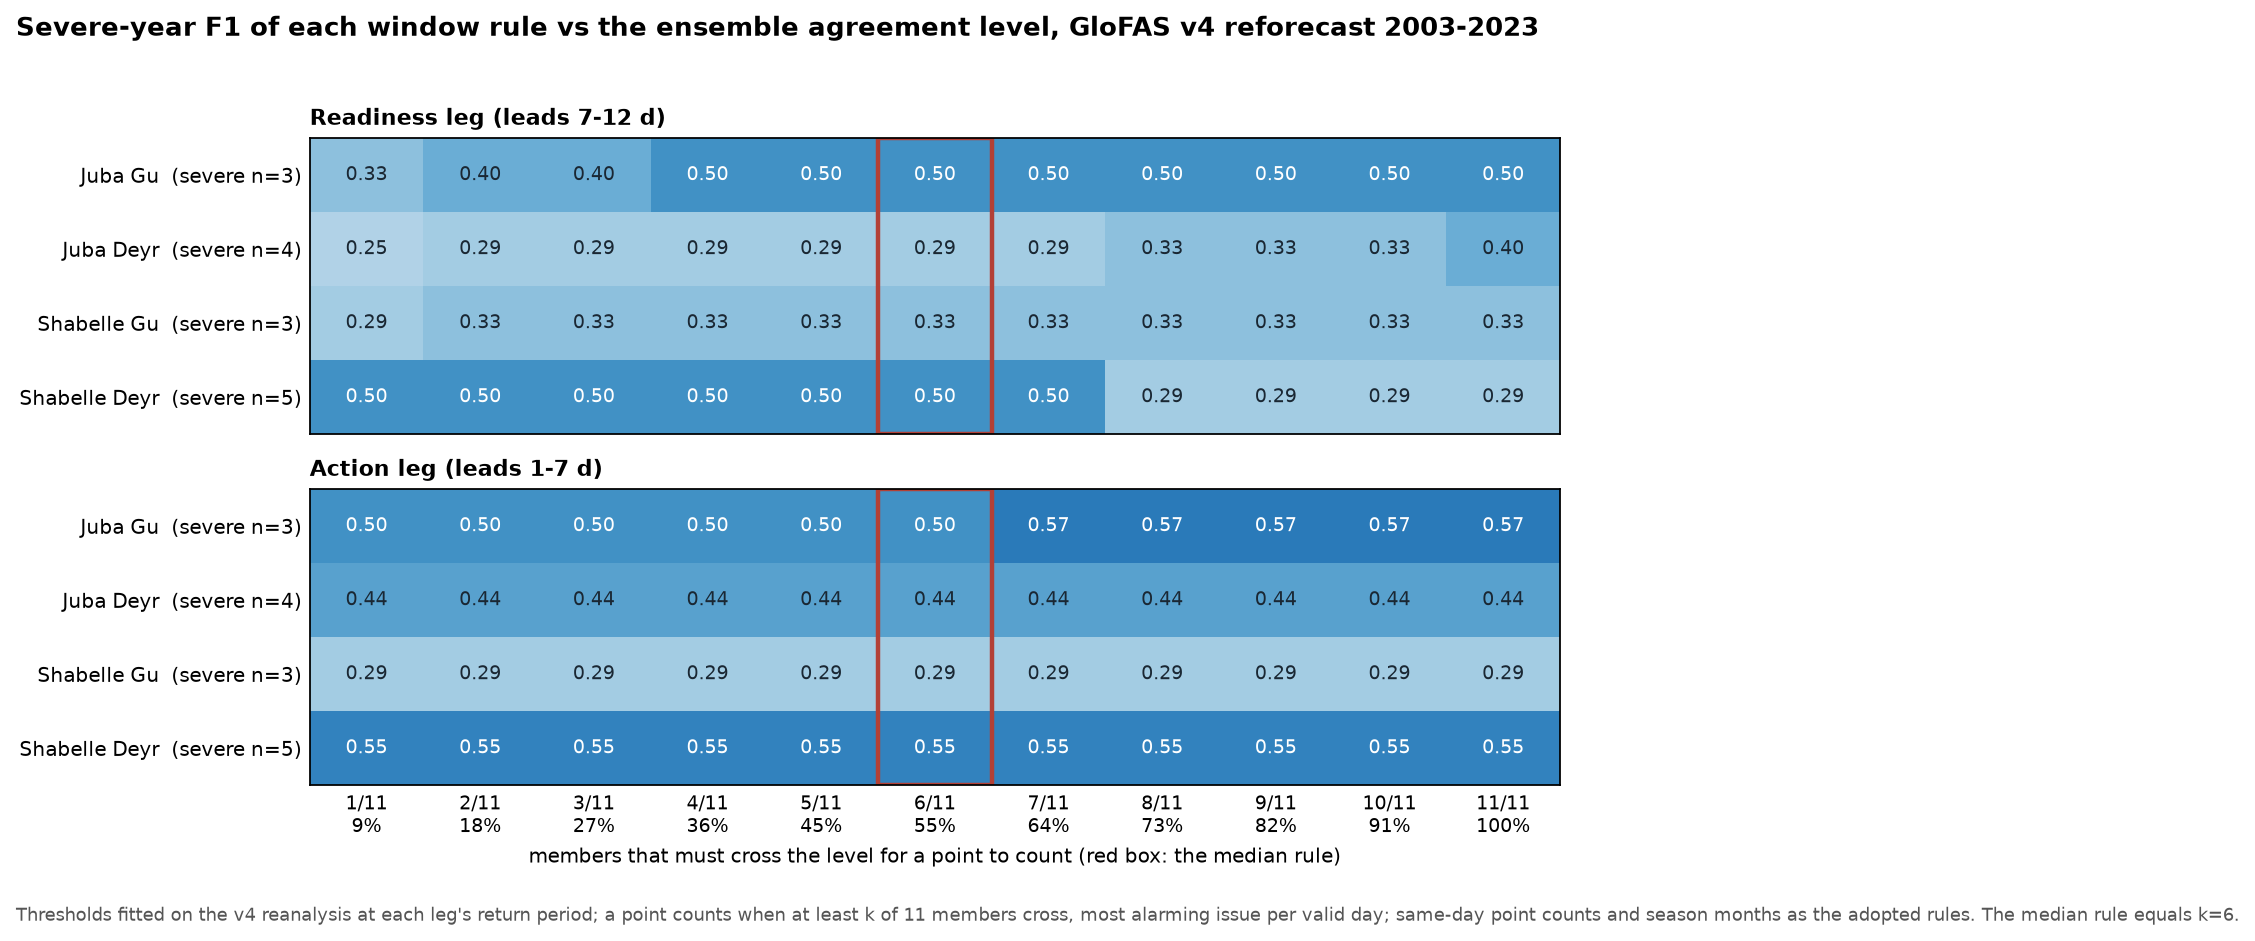
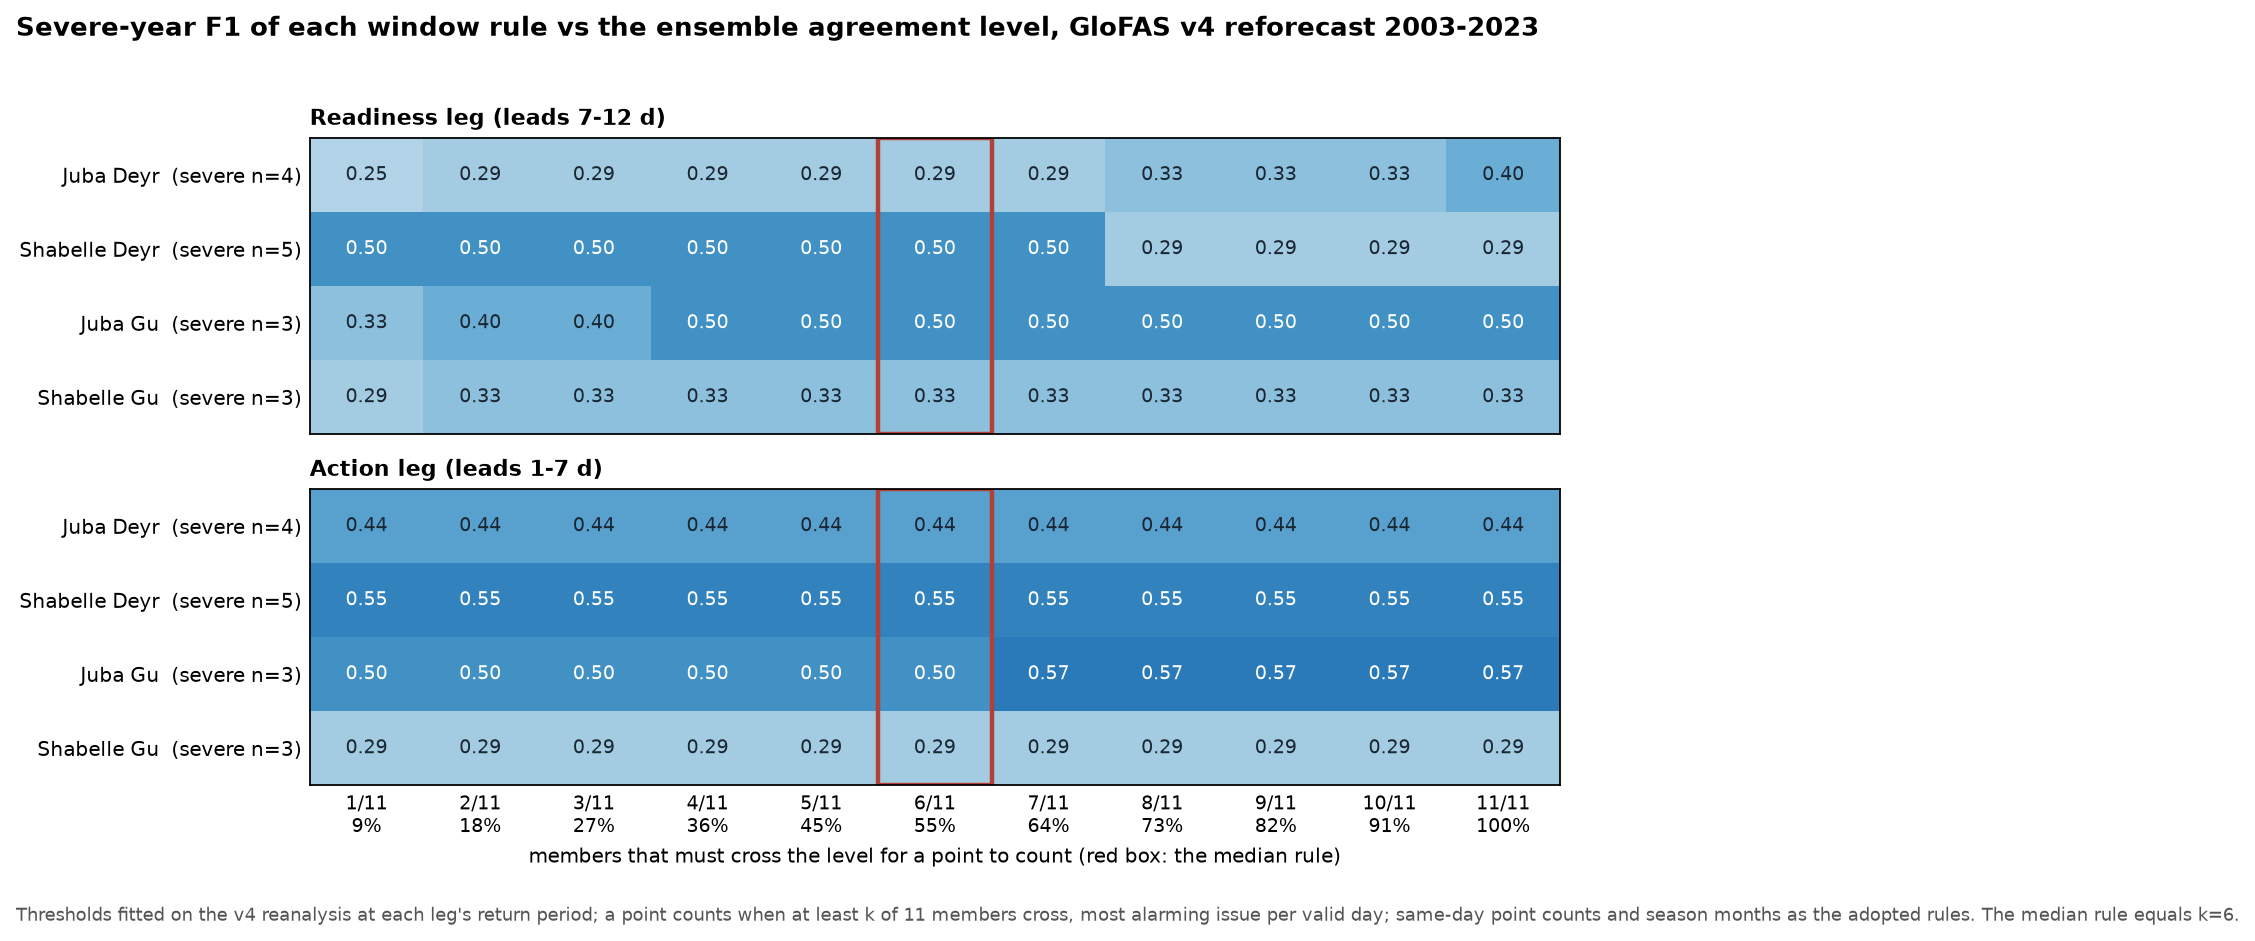
Deyr windows before Gu, in the year table and the heatmap rows

diff --git a/pages/ensemble-agreement/index.html b/pages/ensemble-agreement/index.html
@@ -94,7 +94,7 @@ table.data td { border-bottom:1px solid #eef1f1; padding:7px 10px; color:var(--n
 
     <h2>The sweep</h2>
     <figure>
-      <img src="figs/j_prob_sweep.png?v=202609041700" alt="Heatmap of severe-year F1 per window and leg across the eleven agreement levels">
+      <img src="figs/j_prob_sweep.png?v=202609041830" alt="Heatmap of severe-year F1 per window and leg across the eleven agreement levels">
       <figcaption>Severe-year F1 per window at each agreement level, readiness leg above,
         action below. The red box marks the median rule. On the action leg, three of
         the four windows give the same activations, detection and false alarms at every
@@ -134,7 +134,7 @@ table.data td { border-bottom:1px solid #eef1f1; padding:7px 10px; color:var(--n
 <div class="tablewrap">
 <table class="data">
 <thead><tr><th>window</th><th>year</th><th>gauge benchmark</th><th>readiness activates</th><th>action activates</th></tr></thead>
-<tbody><tr><td>Juba Gu</td><td>2005</td><td>flood (1-in-3)</td><td>no</td><td>at every level</td></tr><tr><td></td><td>2010</td><td>flood (1-in-3)</td><td>up to 1 of 11</td><td>at every level</td></tr><tr><td></td><td>2016</td><td>flood (1-in-3)</td><td>up to 3 of 11</td><td>up to 6 of 11</td></tr><tr><td></td><td>2018</td><td><em>severe (1-in-5)</em></td><td>no</td><td>at every level</td></tr><tr><td></td><td>2020</td><td><em>severe (1-in-5)</em></td><td>at every level</td><td>at every level</td></tr><tr><td></td><td>2023</td><td><em>severe (1-in-5)</em></td><td>no</td><td>no</td></tr><tr><td>Juba Deyr</td><td>2005</td><td>below 1-in-3</td><td>up to 1 of 11</td><td>at every level</td></tr><tr><td></td><td>2006</td><td><em>severe (1-in-5)</em></td><td>no</td><td>no</td></tr><tr><td></td><td>2008</td><td><em>severe (1-in-5)</em></td><td>no</td><td>no</td></tr><tr><td></td><td>2014</td><td><em>severe (1-in-5)</em></td><td>no</td><td>at every level</td></tr><tr><td></td><td>2015</td><td>below 1-in-3</td><td>up to 7 of 11</td><td>at every level</td></tr><tr><td></td><td>2017</td><td>flood (1-in-3)</td><td>up to 10 of 11</td><td>at every level</td></tr><tr><td></td><td>2023</td><td><em>severe (1-in-5)</em></td><td>at every level</td><td>at every level</td></tr><tr><td>Shabelle Gu</td><td>2005</td><td>flood (1-in-3)</td><td>at every level</td><td>at every level</td></tr><tr><td></td><td>2010</td><td>flood (1-in-3)</td><td>at every level</td><td>at every level</td></tr><tr><td></td><td>2016</td><td><em>severe (1-in-5)</em></td><td>at every level</td><td>at every level</td></tr><tr><td></td><td>2018</td><td>flood (1-in-3)</td><td>up to 1 of 11</td><td>at every level</td></tr><tr><td></td><td>2020</td><td><em>severe (1-in-5)</em></td><td>no</td><td>no</td></tr><tr><td></td><td>2023</td><td><em>severe (1-in-5)</em></td><td>no</td><td>no</td></tr><tr><td>Shabelle Deyr</td><td>2006</td><td><em>severe (1-in-5)</em></td><td>no</td><td>no</td></tr><tr><td></td><td>2007</td><td>below 1-in-3</td><td>no</td><td>at every level</td></tr><tr><td></td><td>2010</td><td>below 1-in-3</td><td>no</td><td>at every level</td></tr><tr><td></td><td>2013</td><td>below 1-in-3</td><td>at every level</td><td>at every level</td></tr><tr><td></td><td>2014</td><td><em>severe (1-in-5)</em></td><td>up to 7 of 11</td><td>at every level</td></tr><tr><td></td><td>2019</td><td><em>severe (1-in-5)</em></td><td>at every level</td><td>at every level</td></tr><tr><td></td><td>2020</td><td><em>severe (1-in-5)</em></td><td>no</td><td>at every level</td></tr><tr><td></td><td>2023</td><td><em>severe (1-in-5)</em></td><td>no</td><td>no</td></tr></tbody>
+<tbody><tr><td>Juba Deyr</td><td>2005</td><td>below 1-in-3</td><td>up to 1 of 11</td><td>at every level</td></tr><tr><td></td><td>2006</td><td><em>severe (1-in-5)</em></td><td>no</td><td>no</td></tr><tr><td></td><td>2008</td><td><em>severe (1-in-5)</em></td><td>no</td><td>no</td></tr><tr><td></td><td>2014</td><td><em>severe (1-in-5)</em></td><td>no</td><td>at every level</td></tr><tr><td></td><td>2015</td><td>below 1-in-3</td><td>up to 7 of 11</td><td>at every level</td></tr><tr><td></td><td>2017</td><td>flood (1-in-3)</td><td>up to 10 of 11</td><td>at every level</td></tr><tr><td></td><td>2023</td><td><em>severe (1-in-5)</em></td><td>at every level</td><td>at every level</td></tr><tr><td>Shabelle Deyr</td><td>2006</td><td><em>severe (1-in-5)</em></td><td>no</td><td>no</td></tr><tr><td></td><td>2007</td><td>below 1-in-3</td><td>no</td><td>at every level</td></tr><tr><td></td><td>2010</td><td>below 1-in-3</td><td>no</td><td>at every level</td></tr><tr><td></td><td>2013</td><td>below 1-in-3</td><td>at every level</td><td>at every level</td></tr><tr><td></td><td>2014</td><td><em>severe (1-in-5)</em></td><td>up to 7 of 11</td><td>at every level</td></tr><tr><td></td><td>2019</td><td><em>severe (1-in-5)</em></td><td>at every level</td><td>at every level</td></tr><tr><td></td><td>2020</td><td><em>severe (1-in-5)</em></td><td>no</td><td>at every level</td></tr><tr><td></td><td>2023</td><td><em>severe (1-in-5)</em></td><td>no</td><td>no</td></tr><tr><td>Juba Gu</td><td>2005</td><td>flood (1-in-3)</td><td>no</td><td>at every level</td></tr><tr><td></td><td>2010</td><td>flood (1-in-3)</td><td>up to 1 of 11</td><td>at every level</td></tr><tr><td></td><td>2016</td><td>flood (1-in-3)</td><td>up to 3 of 11</td><td>up to 6 of 11</td></tr><tr><td></td><td>2018</td><td><em>severe (1-in-5)</em></td><td>no</td><td>at every level</td></tr><tr><td></td><td>2020</td><td><em>severe (1-in-5)</em></td><td>at every level</td><td>at every level</td></tr><tr><td></td><td>2023</td><td><em>severe (1-in-5)</em></td><td>no</td><td>no</td></tr><tr><td>Shabelle Gu</td><td>2005</td><td>flood (1-in-3)</td><td>at every level</td><td>at every level</td></tr><tr><td></td><td>2010</td><td>flood (1-in-3)</td><td>at every level</td><td>at every level</td></tr><tr><td></td><td>2016</td><td><em>severe (1-in-5)</em></td><td>at every level</td><td>at every level</td></tr><tr><td></td><td>2018</td><td>flood (1-in-3)</td><td>up to 1 of 11</td><td>at every level</td></tr><tr><td></td><td>2020</td><td><em>severe (1-in-5)</em></td><td>no</td><td>no</td></tr><tr><td></td><td>2023</td><td><em>severe (1-in-5)</em></td><td>no</td><td>no</td></tr></tbody>
 </table>
 </div>
 
